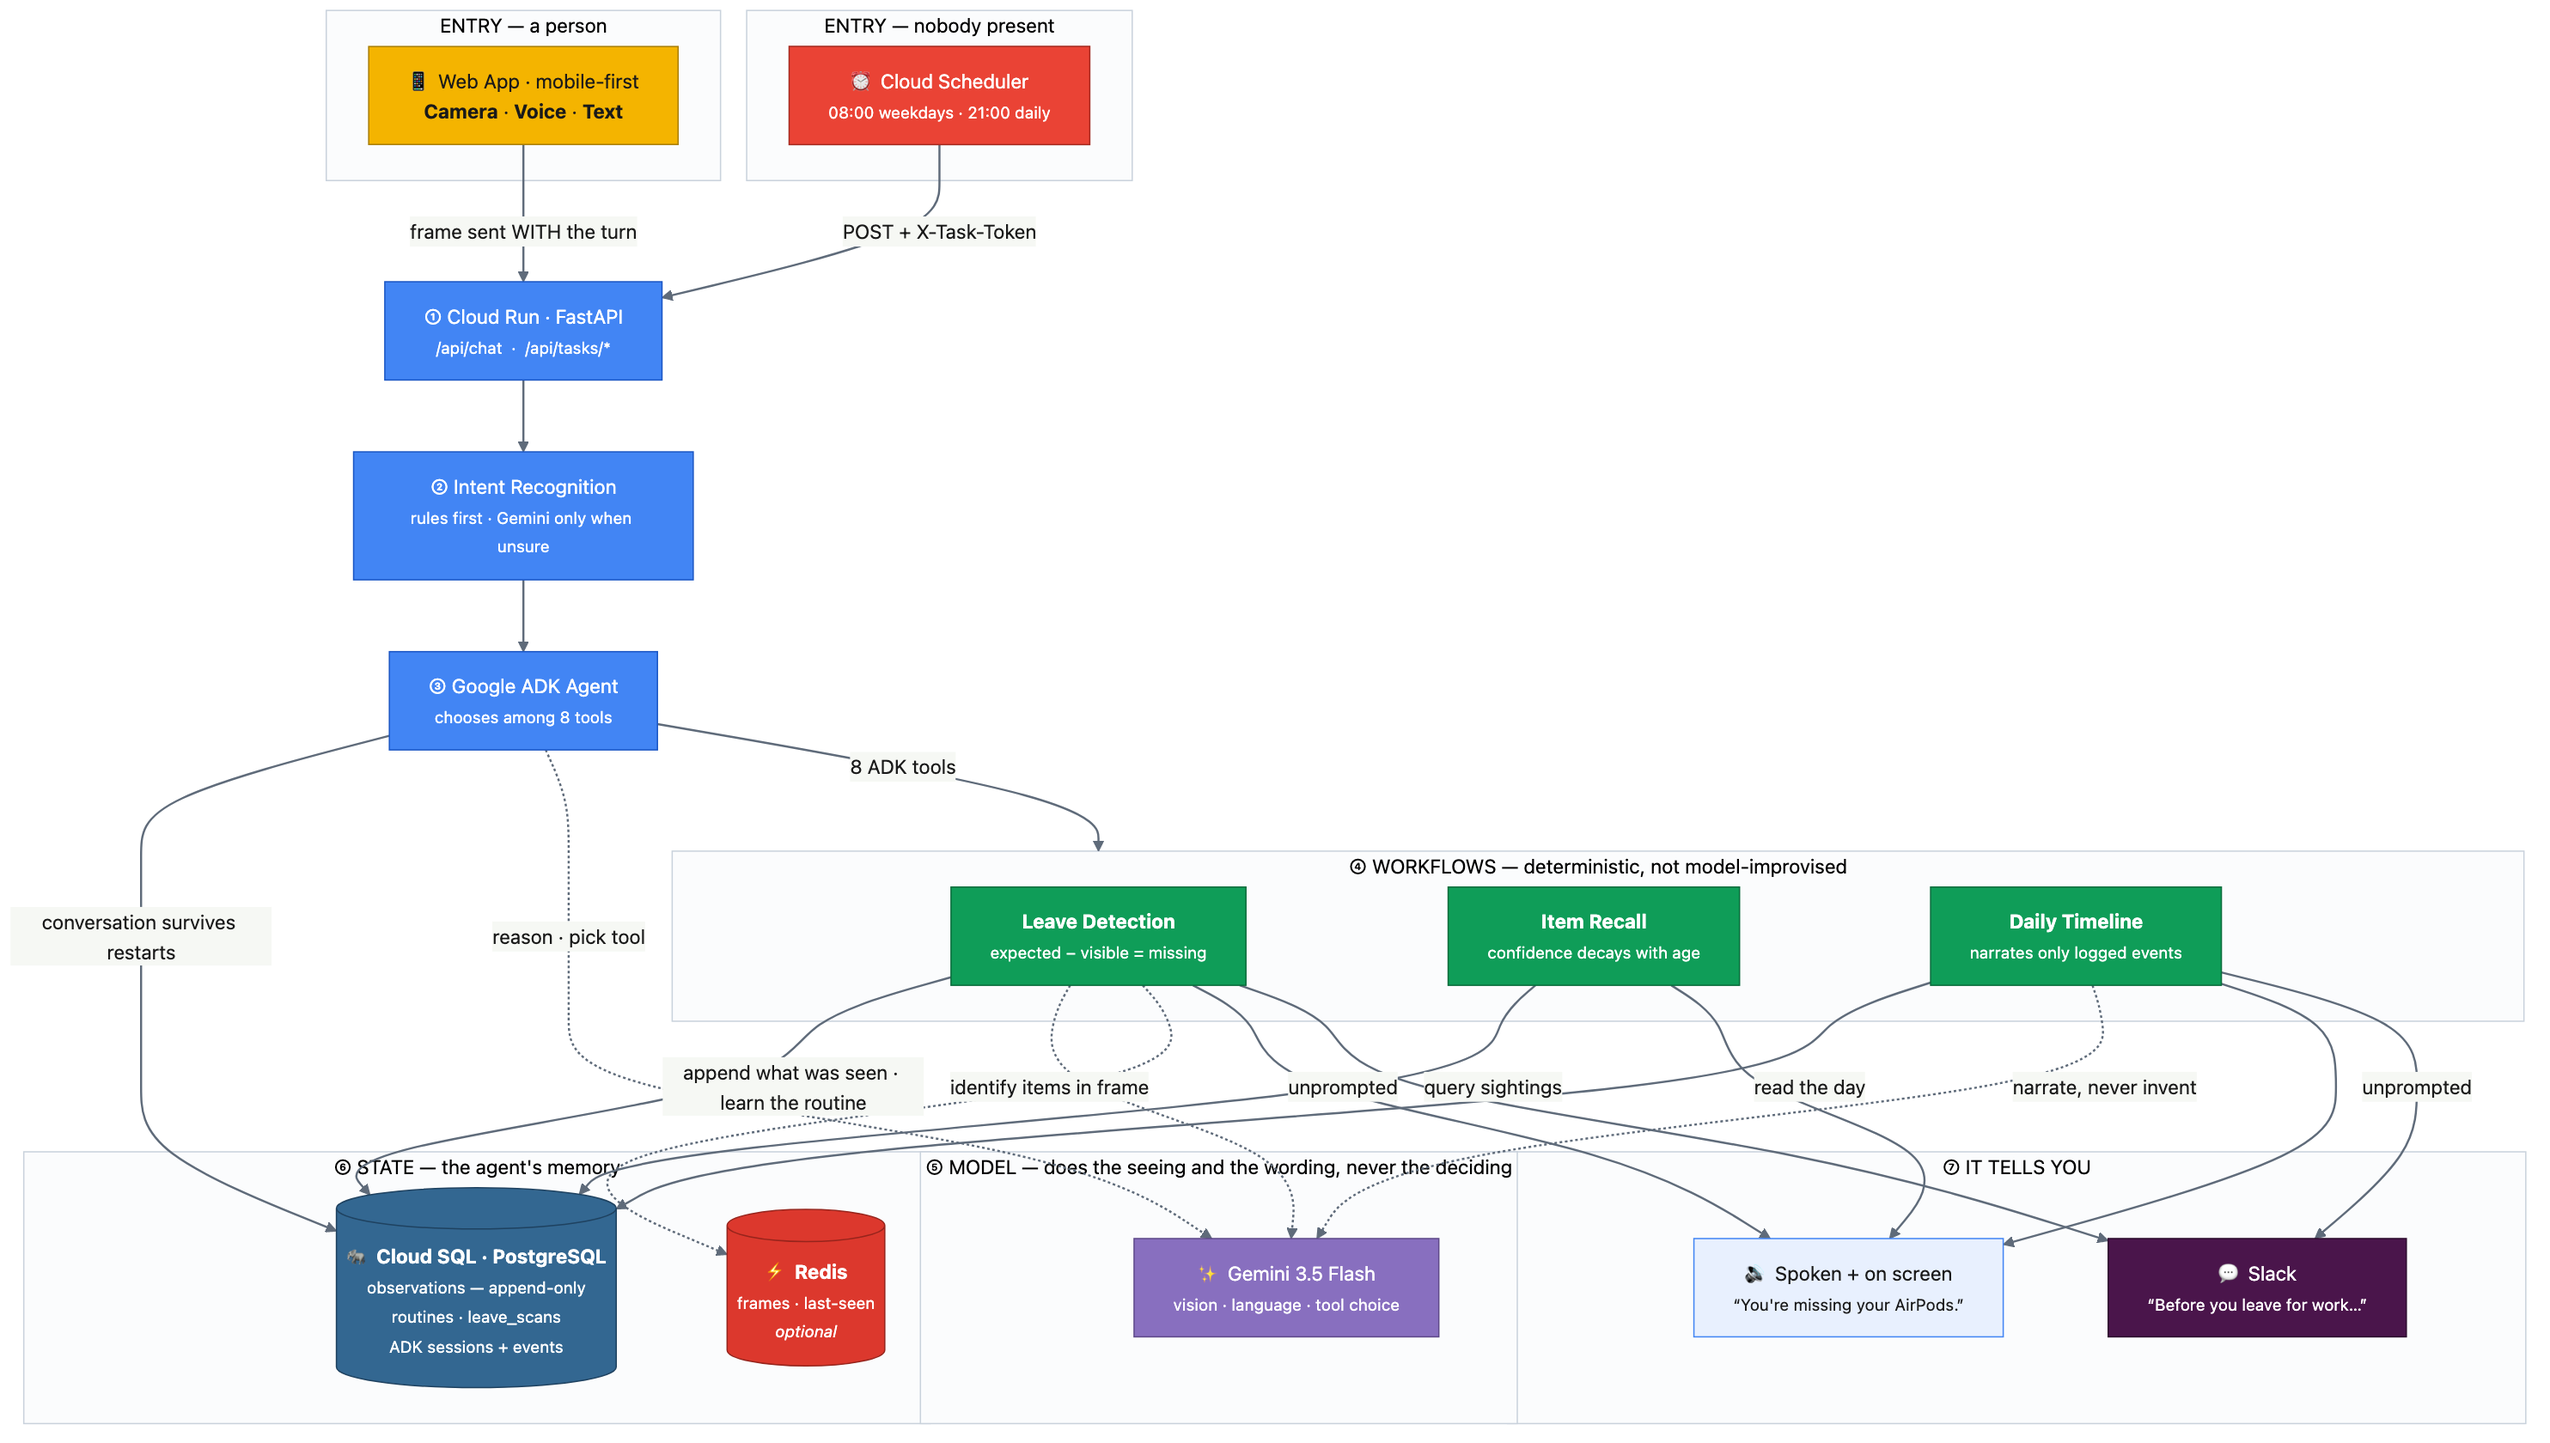
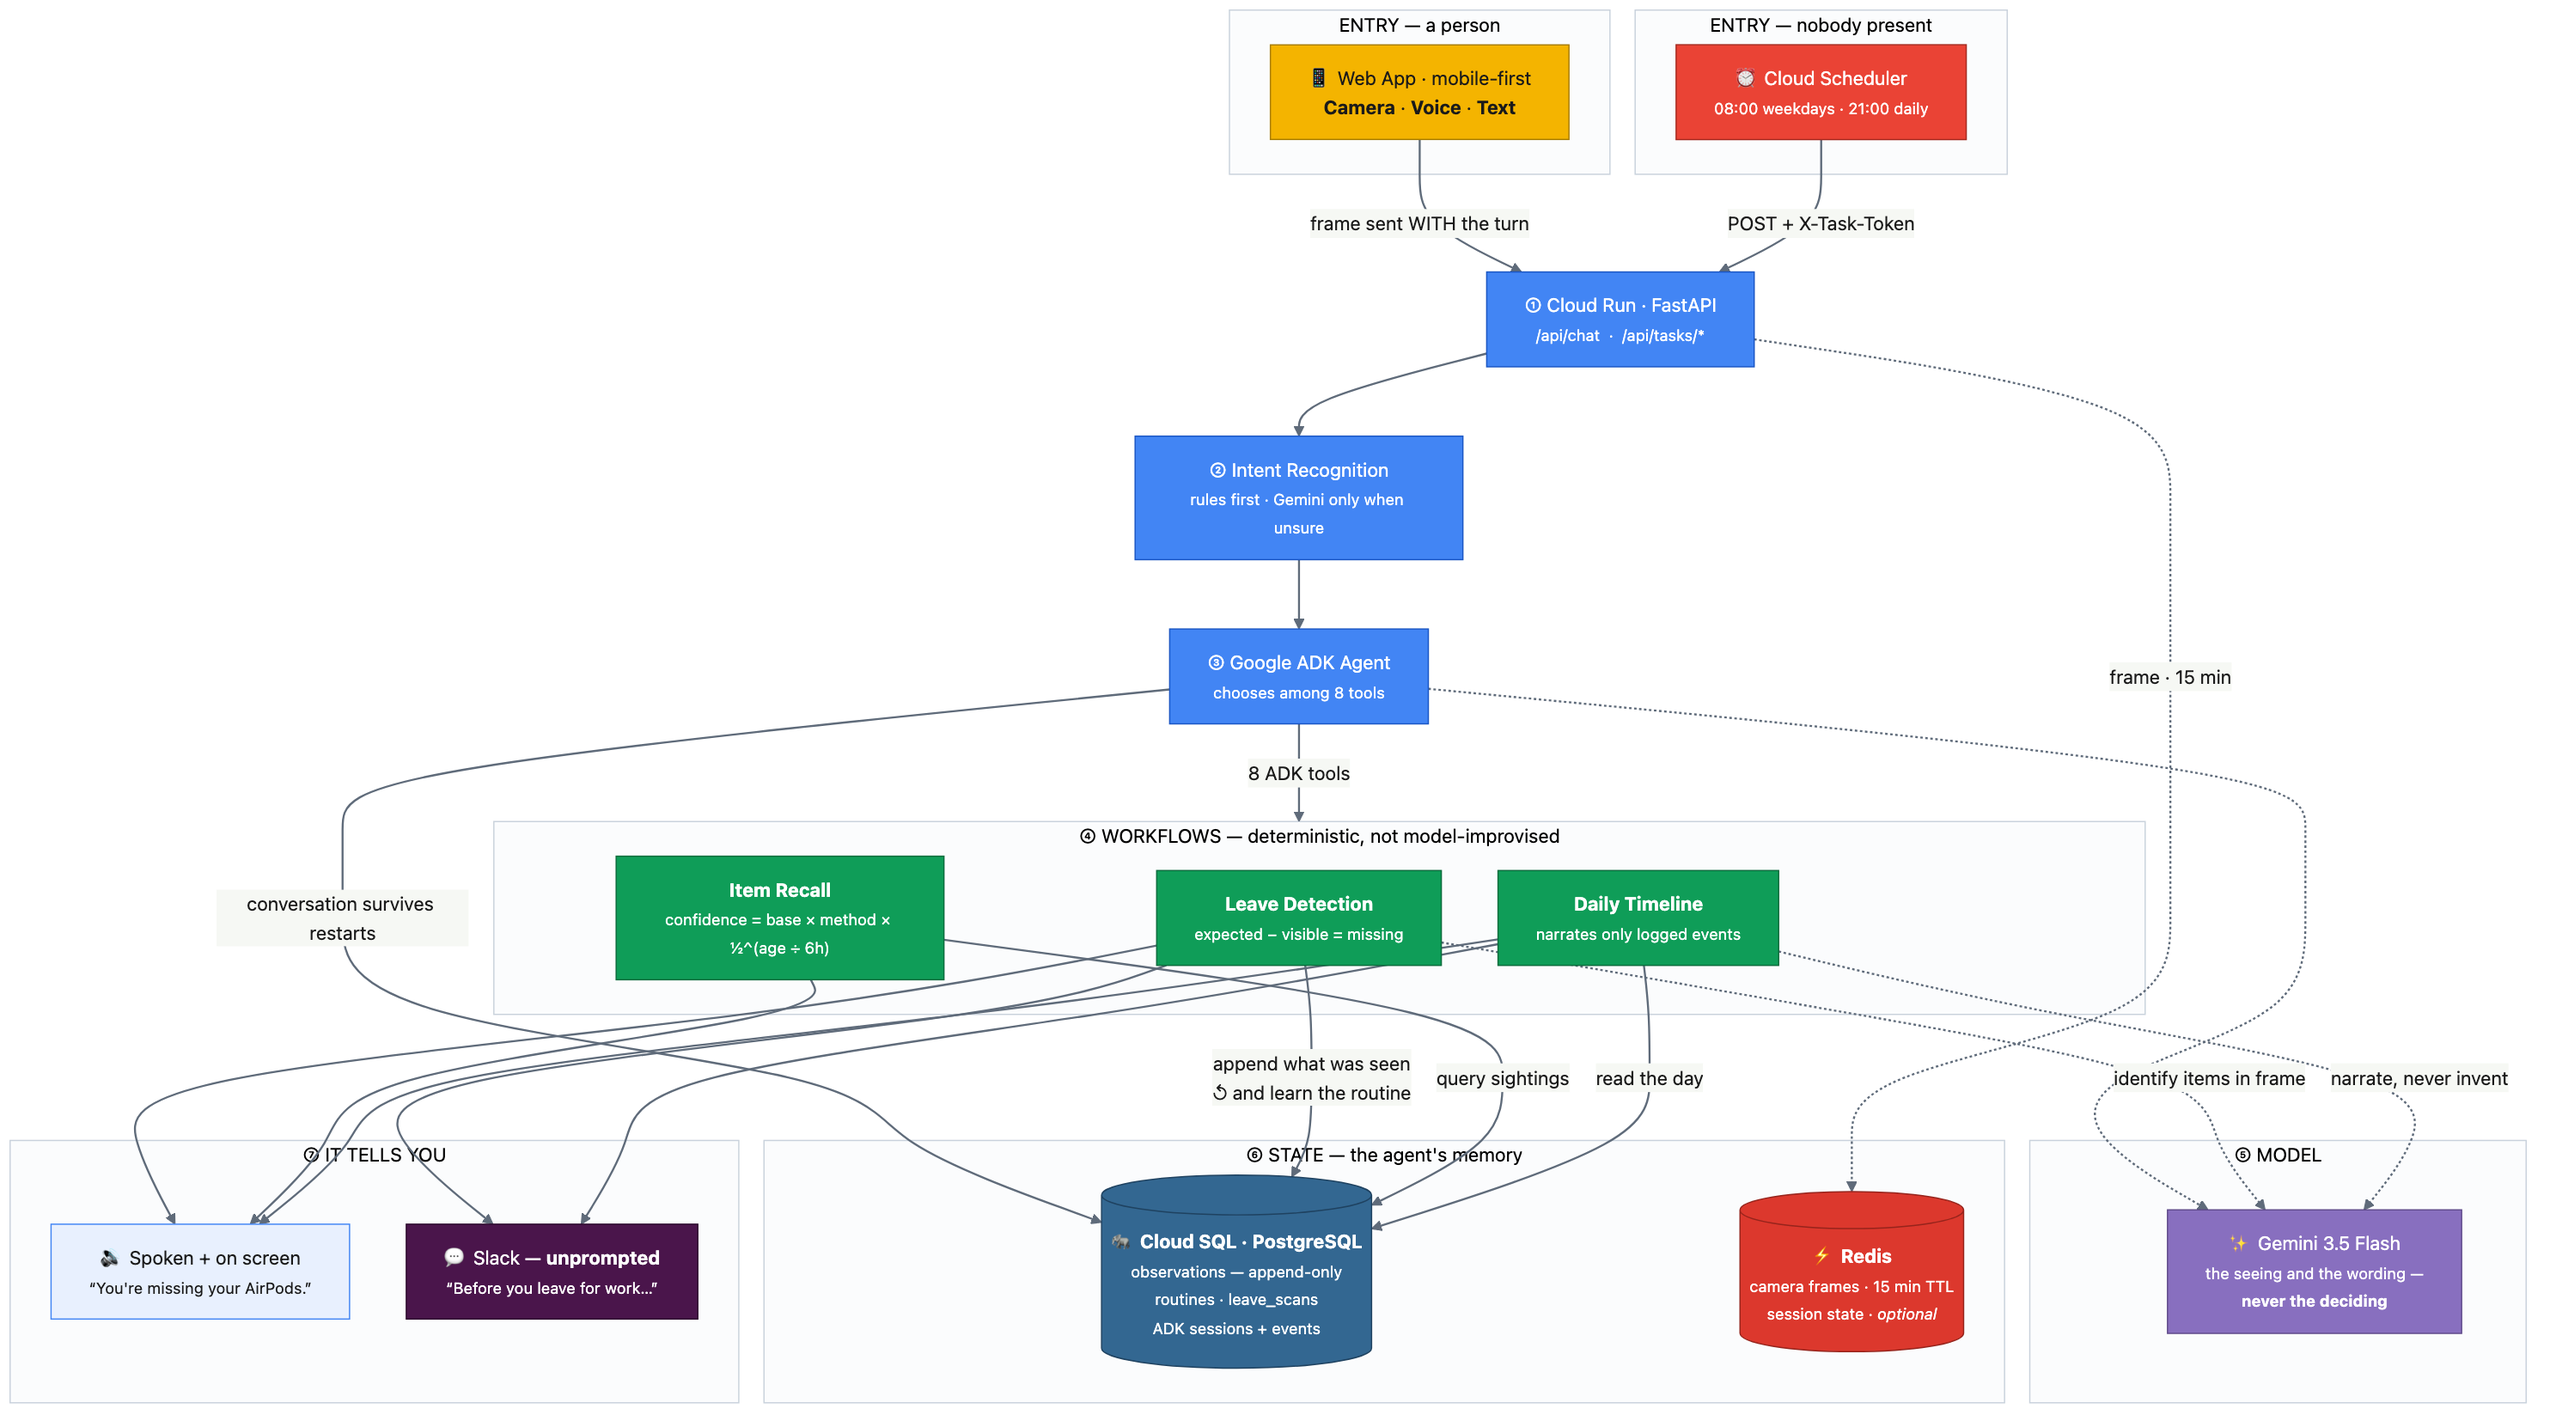
docs: behaviour diagram, and remove the dead last-seen cache
Three of the four requested diagram additions are in. The fourth is not,
and one of them turned out to be a code finding rather than a drawing job.

**The cache loop did not exist.** The request was to show
observation → Postgres → Redis → retrieval as a visible cycle. But
`get_last_seen` had zero call sites: the last-seen index was written on
every observed item — a Redis round trip per item during a leave scan —
and never read once.

Wiring the read would have made the drawing true at the cost of answering
"where is it?" from a copy that can go stale. This agent's one job is not
to state an old location as fact, so the cache is now out of the recall
path entirely and the dead writes are gone. Postgres is the only source of
a sighting. Redis keeps camera frames and session state, which is what the
diagram now says.

**The real cycle is the learning loop**, and it is a better story anyway:
scan → leave_scans → carried on ≥60% of the last 8 trips → routines →
raises the bar for the next scan.

**Confidence decay is shown with computed values**, not illustrative ones:
a camera sighting is 0.90 now, 0.45 at six hours, 0.23 at twelve, 0.06 at
a day. Generated from score_confidence.

**Failure modes** get their own band: no camera, quota exhaustion,
Postgres unreachable, no speech recognition — each with what the user
actually gets told.

Split into two figures. Folding all of this into the architecture diagram
[…]

diff --git a/src/utils/cache.py b/src/utils/cache.py
@@ -156,16 +156,11 @@ class Cache:
     async def clear_frame(self, session_id: str) -> None:
         await self.backend.delete(f"frame:{session_id}")
 
-    # --- last-seen index ---------------------------------------------------
-    async def note_last_seen(self, user_id: str, subject: str, payload: dict[str, Any]) -> None:
-        """Fast path for "where are my X" — avoids hitting Postgres for hot items."""
-        await self.backend.set(
-            f"lastseen:{user_id}:{subject}", json.dumps(payload, default=str), self._session_ttl
-        )
-
-    async def get_last_seen(self, user_id: str, subject: str) -> dict[str, Any] | None:
-        raw = await self.backend.get(f"lastseen:{user_id}:{subject}")
-        return json.loads(raw) if raw else None
+    # NOTE: there was a "last-seen" index here — one cached location per item,
+    # written on every observation. Nothing ever read it, and wiring a read would
+    # have meant answering "where is it?" from a copy that can go stale. This
+    # agent's one job is not to state an old location as fact, so the cache stays
+    # out of the recall path entirely: Postgres is the only source of a sighting.
 
     async def healthy(self) -> bool:
         return await self.backend.ping()

diff --git a/src/agent/workflows.py b/src/agent/workflows.py
@@ -289,12 +289,6 @@ async def leave_detection(
     )
     if vision.available:
         await store.add_observations(observations)
-        for item in vision.items:
-            await cache.note_last_seen(
-                user_id, item.key,
-                {"location": origin, "at": now.isoformat(), "confidence": item.confidence,
-                 "method": "visual"},
-            )
         await store.record_leave_scan(
             user_id=user_id, routine_name=routine.routine_name,
             found_items=sorted(found_keys), missing_items=missing_keys,

diff --git a/src/tools/context_tools.py b/src/tools/context_tools.py
@@ -99,11 +99,6 @@ async def record_observation(
     await get_store().add_observation(observation)
 
     cache = get_cache()
-    await cache.note_last_seen(
-        user_id, observation.subject,
-        {"location": observation.location_label, "at": now.isoformat(),
-         "confidence": 0.9, "method": "voice"},
-    )
     if kind == "location":
         state = tool_context.state
         state["current_location"] = normalize_subject(subject)

diff --git a/docs/architecture.md b/docs/architecture.md
@@ -15,19 +15,33 @@ deterministic functions over the log, and the model's job is language.
 
 ---
 
-## The diagram
+## The diagrams
+
+### 1 · Architecture
 
 ![Architecture](images/architecture.png)
 
-Source: [`architecture.mmd`](architecture.mmd). Regenerate with:
+Two entry points is the point of the picture: one is a person, the other is
+nobody at all. Both run the same workflows against the same log.
+
+### 2 · Behaviour — how it learns, how sure it is, how it fails
+
+![Behaviour](images/behaviour.png)
+
+Split out deliberately. Folding the learning loop and the failure modes into the
+architecture diagram was tried and rejected: a cycle spanning the whole graph
+destroys the layout engine's ranking, and the result took minutes rather than
+seconds to read. Each figure now does one job.
+
+The decay figures are computed from `score_confidence`, not illustrative — a
+camera sighting starts at 0.90 and is worth 0.06 a day later.
+
+Sources: [`architecture.mmd`](architecture.mmd), [`behaviour.mmd`](behaviour.mmd).
 
 ```bash
 npx -y @mermaid-js/mermaid-cli -i docs/architecture.mmd -o docs/images/architecture.png -b white -w 1500 --scale 2
+npx -y @mermaid-js/mermaid-cli -i docs/behaviour.mmd    -o docs/images/behaviour.png    -b white -w 1700 --scale 2
 ```
-
-Two entry points is the point of the picture: the left-hand one is a person, the
-right-hand one is nobody at all. Both run the same workflows against the same
-log.
 
 ---
 

diff --git a/README.md b/README.md
@@ -126,7 +126,10 @@ where decisions get made.** A tool never decides what is missing — it calls a
 workflow that computes it from the log. That is why the agent can't hallucinate
 a sighting.
 
-Full diagram: [`docs/architecture.md`](docs/architecture.md).
+![Architecture](docs/images/architecture.png)
+
+Full diagrams, including how it learns and how it degrades:
+[`docs/architecture.md`](docs/architecture.md).
 
 ---
 
